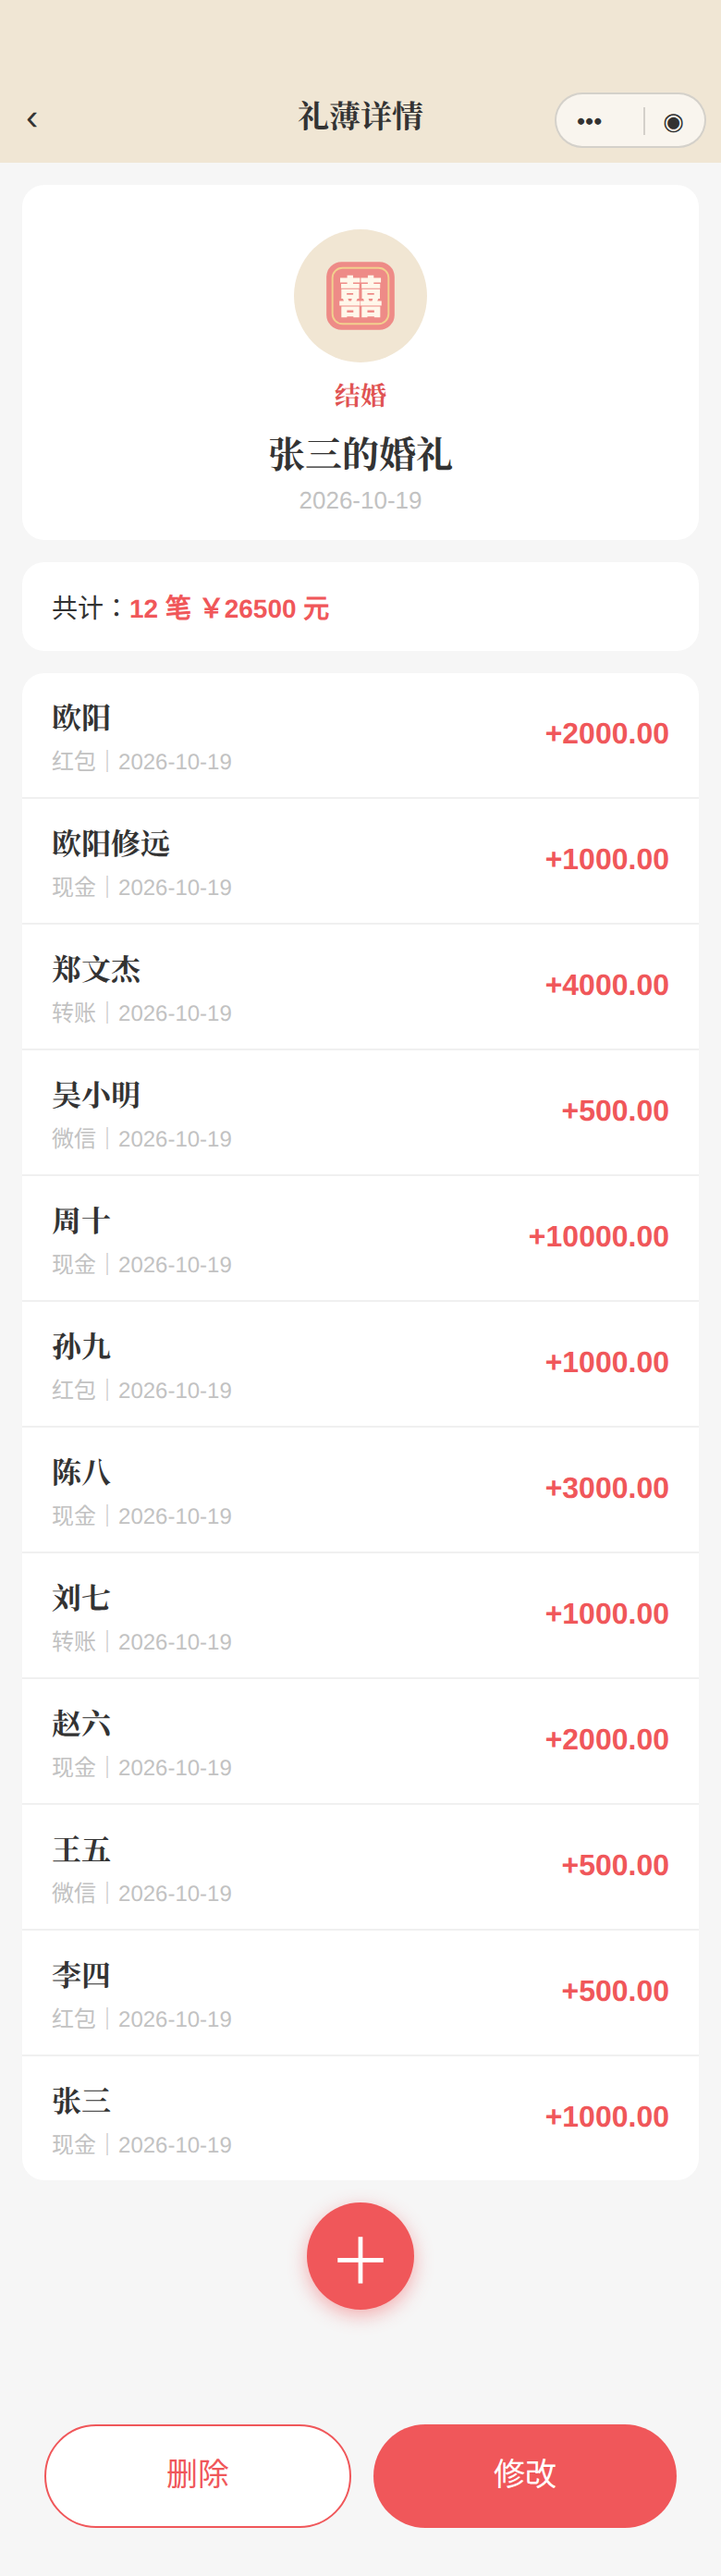
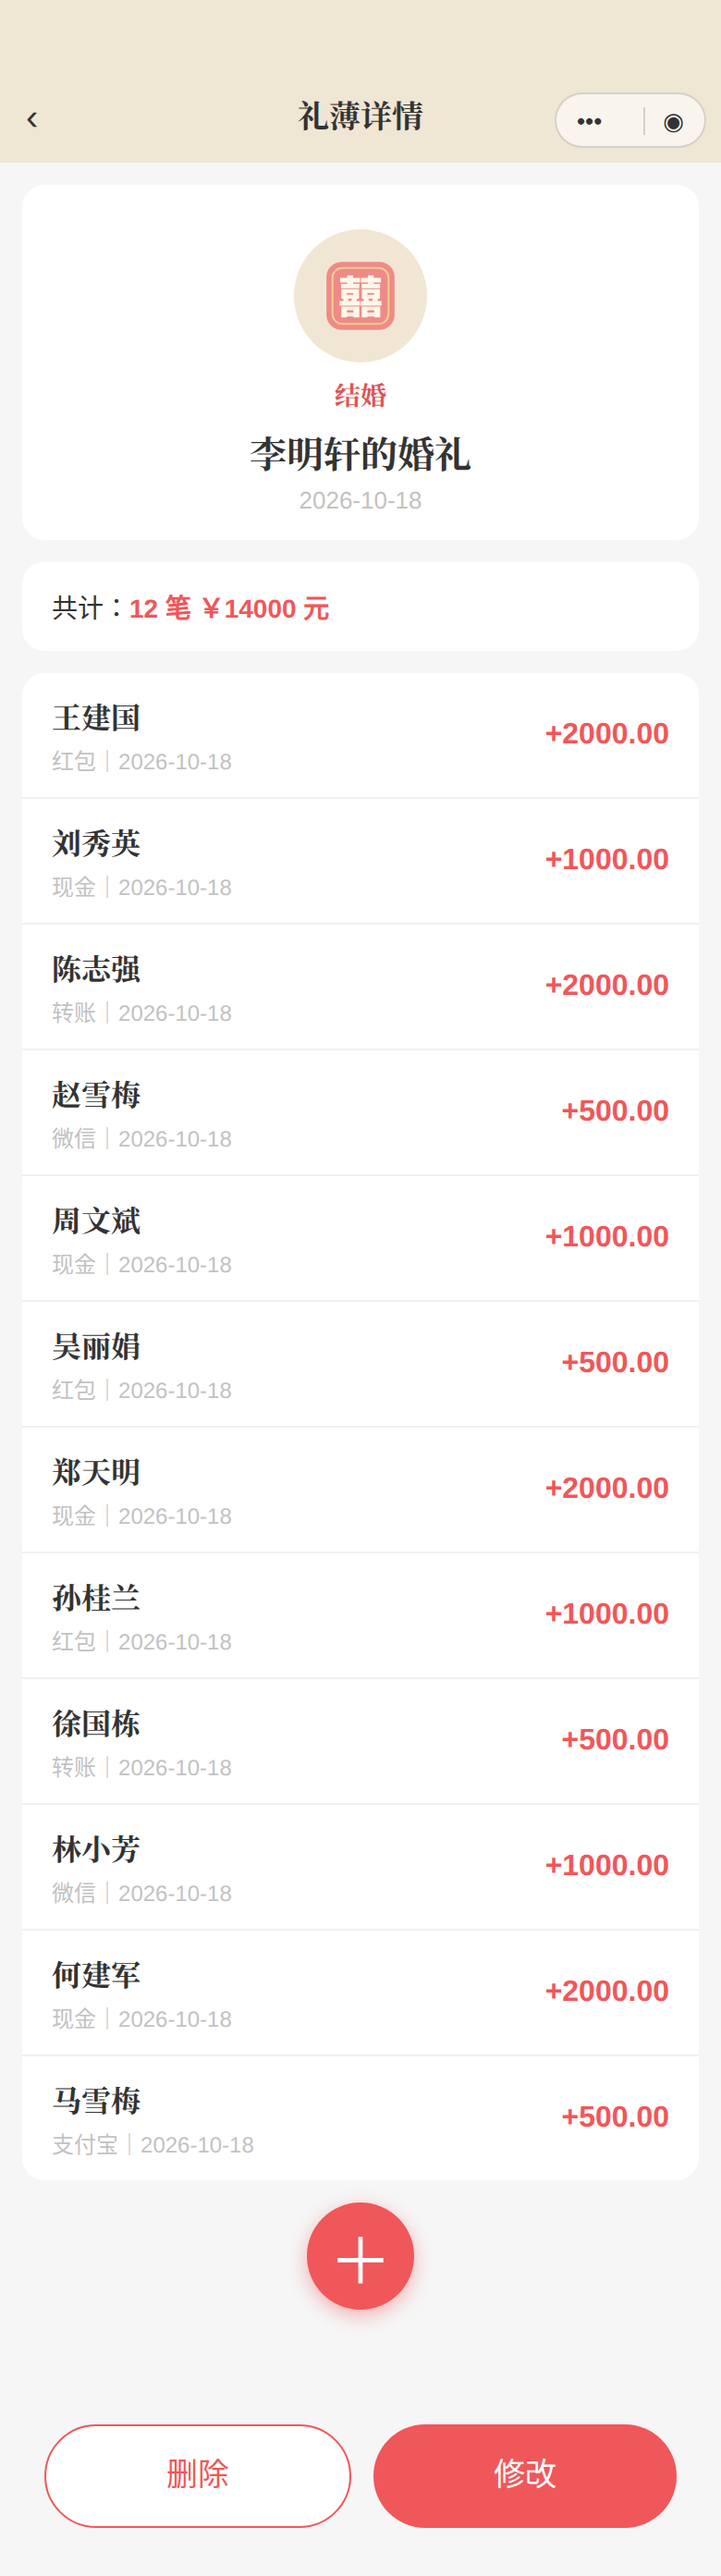
AH批视觉：引导图三张换真实感人名（收礼单礼薄李明轩的婚礼/竖线树收礼用自家亲人事件、送礼5条）+ 视频复刻（喇叭通栏长条字14px图标20px、侧滑修改橙#FCA523删除红#F06D6A各56px）

diff --git a/docs/screens/guide-assets-src/receive-records.html b/docs/screens/guide-assets-src/receive-records.html
@@ -1,7 +1,7 @@
 <!DOCTYPE html><html><head><meta charset="utf-8"><style>
 /* 引导图1 · 收礼记录列表（礼薄详情页静态复刻）
-   数据口径：演示种子「张三的婚礼」12 条（miniprogram/services/demo-seed.js），
-   日期以 2026-10-21 为今天回推（礼薄日期 = 2 天前 = 2026-10-19）。
+   数据口径（2026-10-25 用户定）：真实感人名、不用编号式假名；单个礼薄 12 条、
+   礼薄「李明轩的婚礼」（自家亲人事件）日期 2026-10-18，全图只用这一个礼薄的结婚图案。
    列表顺序与真实页面一致：core 按 createdAt 倒序，种子按名单顺序写入，
    故显示为名单逆序。金额：条目 +formatAmount 两位小数（红色），
    共计行 formatAmountInt 整数场景。版式按 pages/receive-detail 的 wxml/wxss。 */
@@ -39,25 +39,25 @@ body { width:390px; background:#F6F6F6; font-family:-apple-system,"PingFang SC",
 <div class="card pat-card">
   <div class="pat-big"><img src="../../../miniprogram/icons/01-jiehun.svg"></div>
   <span class="pat-name songti">结婚</span>
-  <span class="event-name songti">张三的婚礼</span>
-  <span class="event-date num">2026-10-19</span>
+  <span class="event-name songti">李明轩的婚礼</span>
+  <span class="event-date num">2026-10-18</span>
 </div>
 
-<div class="card summary"><span>共计：</span><span class="red num">12 笔 ￥26500 元</span></div>
+<div class="card summary"><span>共计：</span><span class="red num">12 笔 ￥14000 元</span></div>
 
 <div class="card">
-  <div class="rec-row"><div class="mid"><span class="nm songti">欧阳</span><span class="sub">红包｜<span class="num">2026-10-19</span></span></div><span class="amt num">+2000.00</span></div>
-  <div class="rec-row"><div class="mid"><span class="nm songti">欧阳修远</span><span class="sub">现金｜<span class="num">2026-10-19</span></span></div><span class="amt num">+1000.00</span></div>
-  <div class="rec-row"><div class="mid"><span class="nm songti">郑文杰</span><span class="sub">转账｜<span class="num">2026-10-19</span></span></div><span class="amt num">+4000.00</span></div>
-  <div class="rec-row"><div class="mid"><span class="nm songti">吴小明</span><span class="sub">微信｜<span class="num">2026-10-19</span></span></div><span class="amt num">+500.00</span></div>
-  <div class="rec-row"><div class="mid"><span class="nm songti">周十</span><span class="sub">现金｜<span class="num">2026-10-19</span></span></div><span class="amt num">+10000.00</span></div>
-  <div class="rec-row"><div class="mid"><span class="nm songti">孙九</span><span class="sub">红包｜<span class="num">2026-10-19</span></span></div><span class="amt num">+1000.00</span></div>
-  <div class="rec-row"><div class="mid"><span class="nm songti">陈八</span><span class="sub">现金｜<span class="num">2026-10-19</span></span></div><span class="amt num">+3000.00</span></div>
-  <div class="rec-row"><div class="mid"><span class="nm songti">刘七</span><span class="sub">转账｜<span class="num">2026-10-19</span></span></div><span class="amt num">+1000.00</span></div>
-  <div class="rec-row"><div class="mid"><span class="nm songti">赵六</span><span class="sub">现金｜<span class="num">2026-10-19</span></span></div><span class="amt num">+2000.00</span></div>
-  <div class="rec-row"><div class="mid"><span class="nm songti">王五</span><span class="sub">微信｜<span class="num">2026-10-19</span></span></div><span class="amt num">+500.00</span></div>
-  <div class="rec-row"><div class="mid"><span class="nm songti">李四</span><span class="sub">红包｜<span class="num">2026-10-19</span></span></div><span class="amt num">+500.00</span></div>
-  <div class="rec-row"><div class="mid"><span class="nm songti">张三</span><span class="sub">现金｜<span class="num">2026-10-19</span></span></div><span class="amt num">+1000.00</span></div>
+  <div class="rec-row"><div class="mid"><span class="nm songti">王建国</span><span class="sub">红包｜<span class="num">2026-10-18</span></span></div><span class="amt num">+2000.00</span></div>
+  <div class="rec-row"><div class="mid"><span class="nm songti">刘秀英</span><span class="sub">现金｜<span class="num">2026-10-18</span></span></div><span class="amt num">+1000.00</span></div>
+  <div class="rec-row"><div class="mid"><span class="nm songti">陈志强</span><span class="sub">转账｜<span class="num">2026-10-18</span></span></div><span class="amt num">+2000.00</span></div>
+  <div class="rec-row"><div class="mid"><span class="nm songti">赵雪梅</span><span class="sub">微信｜<span class="num">2026-10-18</span></span></div><span class="amt num">+500.00</span></div>
+  <div class="rec-row"><div class="mid"><span class="nm songti">周文斌</span><span class="sub">现金｜<span class="num">2026-10-18</span></span></div><span class="amt num">+1000.00</span></div>
+  <div class="rec-row"><div class="mid"><span class="nm songti">吴丽娟</span><span class="sub">红包｜<span class="num">2026-10-18</span></span></div><span class="amt num">+500.00</span></div>
+  <div class="rec-row"><div class="mid"><span class="nm songti">郑天明</span><span class="sub">现金｜<span class="num">2026-10-18</span></span></div><span class="amt num">+2000.00</span></div>
+  <div class="rec-row"><div class="mid"><span class="nm songti">孙桂兰</span><span class="sub">红包｜<span class="num">2026-10-18</span></span></div><span class="amt num">+1000.00</span></div>
+  <div class="rec-row"><div class="mid"><span class="nm songti">徐国栋</span><span class="sub">转账｜<span class="num">2026-10-18</span></span></div><span class="amt num">+500.00</span></div>
+  <div class="rec-row"><div class="mid"><span class="nm songti">林小芳</span><span class="sub">微信｜<span class="num">2026-10-18</span></span></div><span class="amt num">+1000.00</span></div>
+  <div class="rec-row"><div class="mid"><span class="nm songti">何建军</span><span class="sub">现金｜<span class="num">2026-10-18</span></span></div><span class="amt num">+2000.00</span></div>
+  <div class="rec-row"><div class="mid"><span class="nm songti">马雪梅</span><span class="sub">支付宝｜<span class="num">2026-10-18</span></span></div><span class="amt num">+500.00</span></div>
 </div>
 
 <div class="fab-zone"><div class="fab">＋</div></div>

diff --git a/docs/screens/guide-assets-src/gifts.html b/docs/screens/guide-assets-src/gifts.html
@@ -1,8 +1,7 @@
 <!DOCTYPE html><html><head><meta charset="utf-8"><style>
 /* 引导图2 · 送礼记录列表（静态复刻）
-   数据口径：演示种子送礼 8 条（miniprogram/services/demo-seed.js），
-   日期以 2026-10-21 为今天按各条 daysAgo 回推。列表顺序与真实页面一致：
-   core 按 createdAt 倒序，种子按 DEMO_GIFTS 顺序写入，故显示为写入逆序。
+   数据口径（2026-10-25 用户定）：真实感人名、不用编号式假名；送礼 8 条、标签不限种类。
+   列表顺序与真实页面一致：core 按 createdAt 倒序，最新在上。
    金额：条目 formatAmount(-金额) 两位小数；共计行 formatAmountInt 整数场景。
    版式按 pages/gifts 的 wxml/wxss（横置入口为开关项，默认关闭态不渲染）。 */
 * { margin:0; padding:0; box-sizing:border-box; }
@@ -33,17 +32,17 @@ body { width:390px; background:#F6F6F6; font-family:-apple-system,"PingFang SC",
 
 <div class="searchbar"><div class="searchbox">搜索姓名</div><span class="search-cancel">取消</span></div>
 
-<div class="card summary"><span>共计：</span><span class="red">8 笔 ￥19000 元</span></div>
+<div class="card summary"><span>共计：</span><span class="red">8 笔 ￥7100 元</span></div>
 
 <div class="card">
-  <div class="gift-row"><div class="pat"><img src="../../../miniprogram/icons/08-dashou.svg"></div><div class="mid"><span class="nm songti">周十</span><span class="sub">大寿｜2025-11-25</span></div><span class="amt">-10000.00</span></div>
-  <div class="gift-row"><div class="pat"><img src="../../../miniprogram/icons/04-yasui.svg"></div><div class="mid"><span class="nm songti">孙九</span><span class="sub">压岁｜2025-12-25</span></div><span class="amt">-1000.00</span></div>
-  <div class="gift-row"><div class="pat"><img src="../../../miniprogram/icons/02-shengzi.svg"></div><div class="mid"><span class="nm songti">陈八</span><span class="sub">生子｜2026-02-03</span></div><span class="amt">-3000.00</span></div>
-  <div class="gift-row"><div class="pat"><img src="../../../miniprogram/icons/03-tanwang.svg"></div><div class="mid"><span class="nm songti">刘七</span><span class="sub">探望｜2026-04-04</span></div><span class="amt">-1000.00</span></div>
-  <div class="gift-row"><div class="pat"><img src="../../../miniprogram/icons/07-qiaoqian.svg"></div><div class="mid"><span class="nm songti">赵六</span><span class="sub">乔迁｜2026-05-24</span></div><span class="amt">-2000.00</span></div>
-  <div class="gift-row"><div class="pat"><img src="../../../miniprogram/icons/09-baishi.svg"></div><div class="mid"><span class="nm songti">王五</span><span class="sub">白事｜2026-09-06</span></div><span class="amt">-500.00</span></div>
-  <div class="gift-row"><div class="pat"><img src="../../../miniprogram/icons/05-shengri.svg"></div><div class="mid"><span class="nm songti">李四</span><span class="sub">生日｜2026-07-23</span></div><span class="amt">-500.00</span></div>
-  <div class="gift-row"><div class="pat"><img src="../../../miniprogram/icons/01-jiehun.svg"></div><div class="mid"><span class="nm songti">张三</span><span class="sub">结婚｜2026-10-01</span></div><span class="amt">-1000.00</span></div>
+  <div class="gift-row"><div class="pat"><img src="../../../miniprogram/icons/01-jiehun.svg"></div><div class="mid"><span class="nm songti">王建国</span><span class="sub">结婚｜2026-10-11</span></div><span class="amt">-2000.00</span></div>
+  <div class="gift-row"><div class="pat"><img src="../../../miniprogram/icons/07-qiaoqian.svg"></div><div class="mid"><span class="nm songti">刘秀英</span><span class="sub">乔迁｜2026-09-26</span></div><span class="amt">-1000.00</span></div>
+  <div class="gift-row"><div class="pat"><img src="../../../miniprogram/icons/02-shengzi.svg"></div><div class="mid"><span class="nm songti">陈志强</span><span class="sub">生子｜2026-09-12</span></div><span class="amt">-1000.00</span></div>
+  <div class="gift-row"><div class="pat"><img src="../../../miniprogram/icons/05-shengri.svg"></div><div class="mid"><span class="nm songti">赵雪梅</span><span class="sub">生日｜2026-08-30</span></div><span class="amt">-500.00</span></div>
+  <div class="gift-row"><div class="pat"><img src="../../../miniprogram/icons/06-shengxue.svg"></div><div class="mid"><span class="nm songti">周文斌</span><span class="sub">升学｜2026-08-22</span></div><span class="amt">-600.00</span></div>
+  <div class="gift-row"><div class="pat"><img src="../../../miniprogram/icons/08-dashou.svg"></div><div class="mid"><span class="nm songti">吴丽娟</span><span class="sub">大寿｜2026-08-15</span></div><span class="amt">-1000.00</span></div>
+  <div class="gift-row"><div class="pat"><img src="../../../miniprogram/icons/03-tanwang.svg"></div><div class="mid"><span class="nm songti">郑天明</span><span class="sub">探望｜2026-07-19</span></div><span class="amt">-500.00</span></div>
+  <div class="gift-row"><div class="pat"><img src="../../../miniprogram/icons/09-baishi.svg"></div><div class="mid"><span class="nm songti">孙桂兰</span><span class="sub">白事｜2026-06-28</span></div><span class="amt">-500.00</span></div>
 </div>
 
 <div class="fab-zone"><div class="fab">＋</div></div>

diff --git a/docs/screens/guide-assets-src/timeline.html b/docs/screens/guide-assets-src/timeline.html
@@ -1,7 +1,7 @@
 <!DOCTYPE html><html><head><meta charset="utf-8"><style>
 /* 引导图3 · 往来竖线树（静态复刻）
-   数据口径：演示种子里与亲友「王五」的全部往来（收礼 3 笔 + 送礼 1 笔，
-   条数并列最多且金额有变化），日期以 2026-10-21 为今天回推。
+   数据口径（2026-10-25 用户定）：与亲友「王建国」的往来；送礼多条、标签不限；
+   收礼条目用自家亲人的事件命名（李福田的寿宴、李明轩的婚礼）。
    顺序与真实页面一致：core/stats 按日期从早到晚。金额：条目无 ¥ 前缀、
    送出负号/收到正号、两位小数（formatAmount）；底部汇总带 ¥ 两位小数，
    差额 = |收到 − 送出|。版式按 pages/timeline 的 wxml/wxss（rpx 按 390/750 换算）。 */
@@ -28,21 +28,24 @@ body { width:390px; background:#F6F6F6; font-family:-apple-system,"PingFang SC",
 .sumbar { background:#FDF6E3; text-align:center; padding:15px 0 19px; font-size:16px; line-height:2; color:#333; }
 .sumbar .dl { color:#E05353; font-weight:700; }
 </style></head><body>
-<div class="nav"><div class="back">‹</div><div class="title">往来记录 - 王五</div><div class="capsule"><span>•••</span><span style="border-left:1px solid rgba(0,0,0,.15);padding-left:10px">◉</span></div></div>
+<div class="nav"><div class="back">‹</div><div class="title">往来记录 - 王建国</div><div class="capsule"><span>•••</span><span style="border-left:1px solid rgba(0,0,0,.15);padding-left:10px">◉</span></div></div>
 
 <div class="kindbar"><div class="kind-half songti">送出</div><div class="kind-half songti">收到</div></div>
 
 <div class="tl">
   <div class="tl-line"></div>
-  <div class="trow"><div class="tcell left"></div><div class="tdot"></div><div class="tcell right"><div class="tdate">2026-05-24</div><div class="treason songti">赵六的乔迁宴<img class="tpen" src="../../../miniprogram/images/icons/pen.svg"></div><div class="tamt">+1000.00</div></div></div>
-  <div class="trow"><div class="tcell left"></div><div class="tdot"></div><div class="tcell right"><div class="tdate">2026-08-22</div><div class="treason songti">王老太爷丧礼<img class="tpen" src="../../../miniprogram/images/icons/pen.svg"></div><div class="tamt">+500.00</div></div></div>
-  <div class="trow"><div class="tcell left"><div class="tdate">2026-09-06</div><div class="treason songti">白事<img class="tpen" src="../../../miniprogram/images/icons/pen.svg"></div><div class="tamt">-500.00</div></div><div class="tdot"></div><div class="tcell right"></div></div>
-  <div class="trow"><div class="tcell left"></div><div class="tdot"></div><div class="tcell right"><div class="tdate">2026-10-19</div><div class="treason songti">张三的婚礼<img class="tpen" src="../../../miniprogram/images/icons/pen.svg"></div><div class="tamt">+500.00</div></div></div>
+  <div class="trow"><div class="tcell left"><div class="tdate">2023-05-20</div><div class="treason songti">结婚<img class="tpen" src="../../../miniprogram/images/icons/pen.svg"></div><div class="tamt">-2000.00</div></div><div class="tdot"></div><div class="tcell right"></div></div>
+  <div class="trow"><div class="tcell left"><div class="tdate">2024-02-10</div><div class="treason songti">压岁<img class="tpen" src="../../../miniprogram/images/icons/pen.svg"></div><div class="tamt">-500.00</div></div><div class="tdot"></div><div class="tcell right"></div></div>
+  <div class="trow"><div class="tcell left"><div class="tdate">2024-11-03</div><div class="treason songti">乔迁<img class="tpen" src="../../../miniprogram/images/icons/pen.svg"></div><div class="tamt">-1000.00</div></div><div class="tdot"></div><div class="tcell right"></div></div>
+  <div class="trow"><div class="tcell left"><div class="tdate">2025-06-15</div><div class="treason songti">生子<img class="tpen" src="../../../miniprogram/images/icons/pen.svg"></div><div class="tamt">-800.00</div></div><div class="tdot"></div><div class="tcell right"></div></div>
+  <div class="trow"><div class="tcell left"></div><div class="tdot"></div><div class="tcell right"><div class="tdate">2025-09-12</div><div class="treason songti">李福田的寿宴<img class="tpen" src="../../../miniprogram/images/icons/pen.svg"></div><div class="tamt">+1000.00</div></div></div>
+  <div class="trow"><div class="tcell left"><div class="tdate">2026-03-08</div><div class="treason songti">生日<img class="tpen" src="../../../miniprogram/images/icons/pen.svg"></div><div class="tamt">-600.00</div></div><div class="tdot"></div><div class="tcell right"></div></div>
+  <div class="trow"><div class="tcell left"></div><div class="tdot"></div><div class="tcell right"><div class="tdate">2026-10-18</div><div class="treason songti">李明轩的婚礼<img class="tpen" src="../../../miniprogram/images/icons/pen.svg"></div><div class="tamt">+2000.00</div></div></div>
 </div>
 
 <div class="sumbar">
-  <div>送出：¥500.00</div>
-  <div>收到：¥2000.00</div>
-  <div><span class="dl">差额：</span>¥1500.00</div>
+  <div>送出：¥4900.00</div>
+  <div>收到：¥3000.00</div>
+  <div><span class="dl">差额：</span>¥1900.00</div>
 </div>
 </body></html>

diff --git a/tests/test-batch-ah.js b/tests/test-batch-ah.js
@@ -1,0 +1,43 @@
+/**
+ * AH批断言（2026-10-25，用户视频复刻 + 引导图换新）：
+ * 1) 小喇叭（收礼页）：通栏长条（margin 0、无圆角）、图标 20px、文字 14px；
+ *    文案保持不变（receive.js hornText 原文）；滚动估算按 14px 字宽调用。
+ * 2) 侧滑修改/删除：各 56px（SWIPE_W=112）、修改橙 #FCA523、删除红 #F06D6A。
+ * 3) 引导图源数据：真实感人名、无编号式假名；收礼单礼薄「李明轩的婚礼」；
+ *    竖线树收礼用自家亲人事件命名、送礼不少于 5 条。
+ */
+const assert = require('assert');
+const fs = require('fs');
+const read = (p) => fs.readFileSync(p, 'utf8');
+
+(function run() {
+  const wxss = read('miniprogram/pages/receive/receive.wxss');
+  const horn = wxss.match(/\.horn \{[^}]*\}/)[0];
+  assert(/margin:\s*0;/.test(horn) && !/border-radius/.test(horn), '喇叭须通栏（margin 0、无圆角）');
+  assert(wxss.includes('.horn-icon { width: 20px; height: 20px;'), '喇叭图标 20px');
+  assert(/\.horn-text \{[^}]*font-size: 14px;/.test(wxss), '喇叭文字 14px');
+
+  const js = read('miniprogram/pages/receive/receive.js');
+  assert(js.includes("hornText: '查看收礼记录，从右往左滑动可以修改、删除礼簿~'"), '喇叭文案保持不变（用户定）');
+  assert(js.includes('fontPx: 14'), '滚动估算按 14px');
+  assert(js.includes('const SWIPE_W = 112;'), '侧滑总宽 112');
+
+  const act = wxss.match(/\.act \{[^}]*\}/)[0];
+  assert(act.includes('width: 56px;'), '侧滑按钮各 56px');
+  assert(wxss.includes('.act-edit { background: #FCA523; }'), '修改橙 #FCA523');
+  assert(wxss.includes('.act-del { background: #F06D6A; }'), '删除红 #F06D6A');
+
+  const OLD = ['欧阳修远', '周十', '孙九', '陈八', '刘七', '赵六', '王五', '张三', '李四'];
+  const recv = read('docs/screens/guide-assets-src/receive-records.html');
+  const gifts = read('docs/screens/guide-assets-src/gifts.html');
+  const tl = read('docs/screens/guide-assets-src/timeline.html');
+  for (const [name, src] of [['收礼图', recv], ['送礼图', gifts], ['竖线树图', tl]]) {
+    for (const o of OLD) assert(!src.includes(o), `${name}不得再有假名 ${o}`);
+  }
+  assert(recv.includes('李明轩的婚礼') && recv.includes('王建国'), '收礼图为李明轩婚礼、真实人名');
+  assert((tl.match(/<div class="trow">/g) || []).length === 7, '竖线树 7 条');
+  assert(tl.includes('李福田的寿宴') && tl.includes('李明轩的婚礼'), '竖线树收礼用自家亲人事件命名');
+  const giftsLeft = (tl.match(/tcell left"><div class="tdate">/g) || []).length;
+  assert(giftsLeft >= 5, `竖线树送礼至少 5 条（实际 ${giftsLeft}）`);
+  console.log('test-batch-ah OK');
+})();

diff --git a/miniprogram/pages/receive/receive.js b/miniprogram/pages/receive/receive.js
@@ -13,7 +13,7 @@ const { hornMarquee } = require('../../services/horn-marquee.js');
 const { tagIconPath } = require('../../config/tag-icons.js');
 const { formatAmount, formatAmountInt } = require('../../core/format.js');
 
-const SWIPE_W = 150; // 修改75 + 删除75
+const SWIPE_W = 112; // AH批按视频复刻：修改56 + 删除56（原各75）
 
 Page({
   data: {
@@ -43,7 +43,7 @@ Page({
     this._membershipP = membershipP;
     // 小喇叭关闭状态只存内存（horn-state）：本次打开期间不再显示，下次冷启动恢复
     this.setData({ showHorn: !hornState.isDismissed('receive') });
-    const hm = hornMarquee(this.data.hornText);
+    const hm = hornMarquee(this.data.hornText, { fontPx: 14, avail: 284 }); // AH批：喇叭字 14px、通栏可用宽
     this.setData({ hornRun: hm.run, hornDur: hm.dur });
     await this.reload();
     await membershipP;

diff --git a/tests/run.js b/tests/run.js
@@ -51,6 +51,7 @@ require('./test-batch-z');
 require('./test-batch-aa');
 require('./test-batch-ab');
 require('./test-batch-ac');
+require('./test-batch-ah');
 
 (async () => {
   console.log('礼单簿 阶段1 本地测试（内存数据库）\n');
